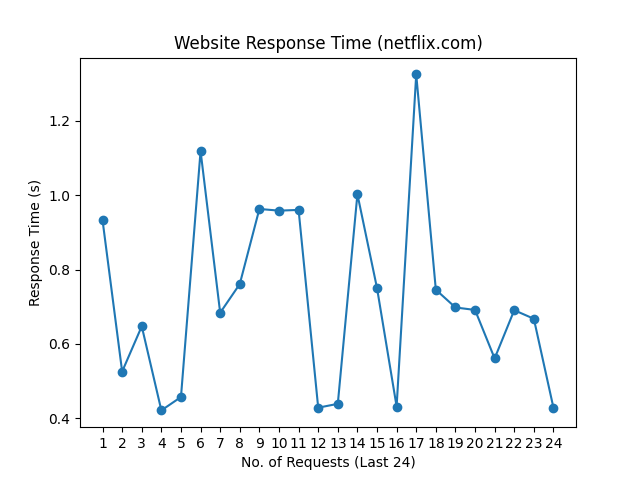
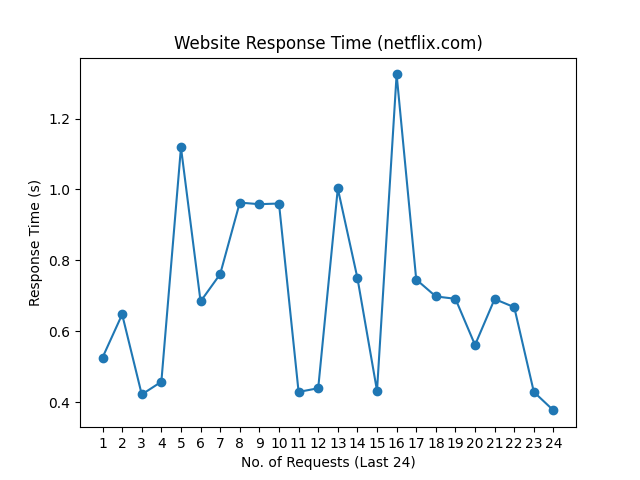
update README.md, history and graph

diff --git a/README.md b/README.md
@@ -1,10 +1,10 @@
 # Web Monitoring
 
-Last Checked: 04/05/2024 09:02
+Last Checked: 05/05/2024 09:06
 
 | Website | Response Time (s) | Status | Avg Uptime (%) |
 |---------|-------------------|--------|----------------|
 | www.thiswebsiteisdown.net | 0 <br> <img src="graph/thiswebsiteisdown.net.png" alt="Graph" width="200" height="200">  | ❌ Down | 0.00 |
-| www.netflix.com | 0.428628 <br> <img src="graph/netflix.com.png" alt="Graph" width="200" height="200">  | ✅ Up | 100.00 |
-| www.google.com | 0.091844 <br> <img src="graph/google.com.png" alt="Graph" width="200" height="200">  | ✅ Up | 100.00 |
-| www.facebook.com | 0.261725 <br> <img src="graph/facebook.com.png" alt="Graph" width="200" height="200">  | ✅ Up | 100.00 |
+| www.netflix.com | 0.376624 <br> <img src="graph/netflix.com.png" alt="Graph" width="200" height="200">  | ✅ Up | 100.00 |
+| www.google.com | 0.081912 <br> <img src="graph/google.com.png" alt="Graph" width="200" height="200">  | ✅ Up | 100.00 |
+| www.facebook.com | 0.592372 <br> <img src="graph/facebook.com.png" alt="Graph" width="200" height="200">  | ✅ Up | 100.00 |
